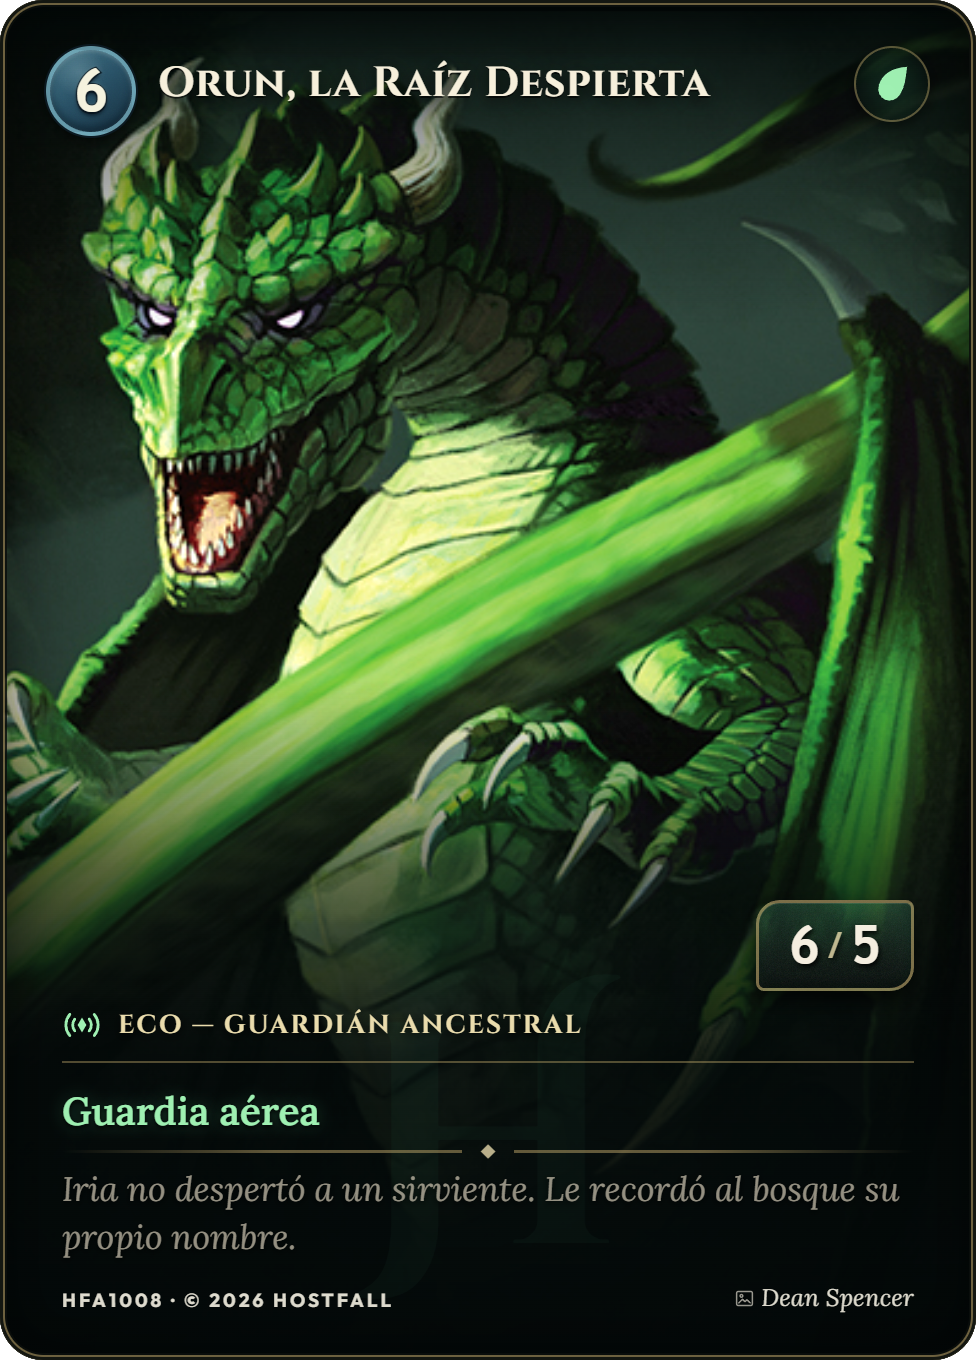
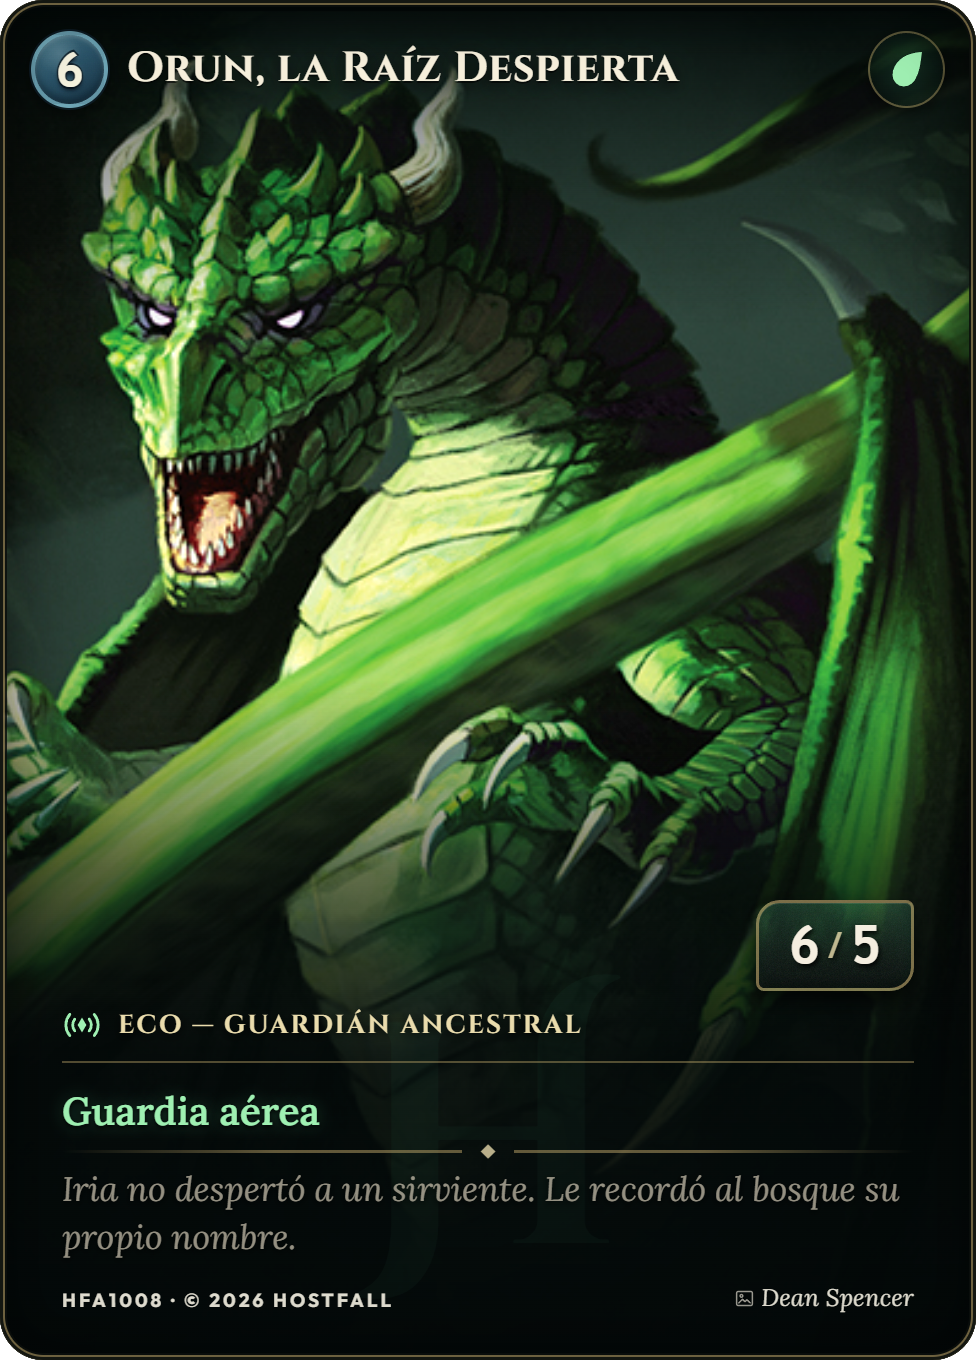
stable

Changed region(s): [[0.0307, 0.0, 0.7377, 0.1235], [0.8914, 0.0309, 0.9529, 0.0926]]

diff --git a/dev/tools/Decks/deck-card-studio.css b/dev/tools/Decks/deck-card-studio.css
@@ -306,10 +306,12 @@ body {
 
 .tcg-cost-gem {
     position: absolute;
+    top: 30.5px;
+    left: 31px;
     z-index: 10;
     display: flex;
-    width: 90px;
-    height: 90px;
+    width: 77px;
+    height: 77px;
     align-items: center;
     justify-content: center;
     isolation: isolate;
@@ -337,7 +339,7 @@ body {
     height: 100%;
     place-items: center;
     color: #f6f3df;
-    font: 900 60px/1 "Trebuchet MS", "Outfit", sans-serif;
+    font: 900 49px/1 "Trebuchet MS", "Outfit", sans-serif;
     font-feature-settings: "tnum" 1;
     font-variant-numeric: tabular-nums;
     text-shadow:
@@ -408,6 +410,10 @@ body {
     color: inherit;
     font: italic 500 24px/1 "Lora", Georgia, serif;
     letter-spacing: 0.2px;
+}
+
+.tcg-cost-gem span[data-cost="4"] {
+    transform: translateX(-3px);
 }
 
 .tcg-stats-badge {
@@ -691,21 +697,6 @@ body {
     z-index: 2;
 }
 
-.tcg-card--common .tcg-cost-gem {
-    top: 30.5px;
-    left: 31px;
-    width: 77px;
-    height: 77px;
-}
-
-.tcg-card--common .tcg-cost-gem span {
-    font-size: 49px;
-}
-
-.tcg-card--common .tcg-cost-gem span[data-cost="4"] {
-    transform: translateX(-3px);
-}
-
 .tcg-card--common .tcg-title {
     color: #f6f1e5;
     font: 700 37px/1.08 "Cinzel", serif;
@@ -957,23 +948,18 @@ body[data-theme="crimson_court"] .tcg-seal .tcg-faction-icon--blood {
 
 .tcg-card--full-art .tcg-head {
     position: absolute;
-    top: 46px;
-    right: 46px;
-    left: 46px;
+    top: 30.5px;
+    right: 31px;
+    left: 31px;
     z-index: 9;
     display: flex;
     align-items: center;
     gap: 22px;
-    padding-left: 112px;
+    padding-left: 96px;
 }
 
 .tcg-card--full-art.tcg-card--no-cost .tcg-head {
     padding-left: 0;
-}
-
-.tcg-card--full-art .tcg-cost-gem {
-    top: 46px;
-    left: 46px;
 }
 
 .tcg-card--full-art .tcg-title {
@@ -1006,9 +992,9 @@ body[data-theme="crimson_court"] .tcg-seal .tcg-faction-icon--blood {
 
 .tcg-card--full-art .tcg-seal {
     display: grid;
-    width: 76px;
-    height: 76px;
-    flex: 0 0 76px;
+    width: 77px;
+    height: 77px;
+    flex: 0 0 77px;
     padding: 14px;
     place-items: center;
     border: 2px solid rgba(191, 166, 106, 0.45);

diff --git a/tests/deckCardText.test.js b/tests/deckCardText.test.js
@@ -377,6 +377,26 @@ test("the shared printed design keeps the approved compact geometry", () => {
   );
   assert.match(
     sharedCss,
+    /\.tcg-cost-gem\s*\{[^}]*top:\s*30\.5px;[^}]*left:\s*31px;[^}]*width:\s*77px;[^}]*height:\s*77px;/u,
+    "common and full-art cards must share one printed cost position and size",
+  );
+  assert.doesNotMatch(
+    sharedCss,
+    /\.tcg-card--(?:common|full-art) \.tcg-cost-gem\s*\{/u,
+    "card variants must not override the shared printed cost geometry",
+  );
+  assert.match(
+    sharedCss,
+    /\.tcg-card--full-art \.tcg-head\s*\{[^}]*top:\s*30\.5px;[^}]*right:\s*31px;[^}]*left:\s*31px;[^}]*padding-left:\s*96px;/u,
+    "the full-art title row must align with the shared cost geometry",
+  );
+  assert.match(
+    sharedCss,
+    /\.tcg-card--full-art \.tcg-seal\s*\{[^}]*width:\s*77px;[^}]*height:\s*77px;[^}]*flex:\s*0 0 77px;/u,
+    "the full-art top-right seal must mirror the cost orb",
+  );
+  assert.match(
+    sharedCss,
     /\.tcg-card--common \.tcg-typeband\s*\{[^}]*min-height:\s*74px;/u,
     "the common type band must match the header height",
   );

diff --git a/dev/tools/Decks/crimson_court/deck-data.generated.js b/dev/tools/Decks/crimson_court/deck-data.generated.js
@@ -117,12 +117,11 @@ window.HostfallDeckData = [
     "lore": "Nada abandona la cripta sin su permiso.",
     "showFlavorText": true,
     "cantidad": 3,
-    "fullArt": true,
     "headerFade": false,
     "art_frame": {
       "zoom": 1,
       "x": 0,
-      "y": -53
+      "y": -42
     }
   },
   {
@@ -224,12 +223,11 @@ window.HostfallDeckData = [
     "lore": "El dolor sólo es fuerza esperando una dirección.",
     "showFlavorText": false,
     "cantidad": 2,
-    "fullArt": true,
     "headerFade": false,
     "art_frame": {
-      "zoom": 0.79,
-      "x": -10,
-      "y": -135
+      "zoom": 0.703,
+      "x": -4,
+      "y": -220
     }
   },
   {
@@ -248,9 +246,9 @@ window.HostfallDeckData = [
     "cantidad": 2,
     "fullArt": true,
     "art_frame": {
-      "zoom": 1.425,
+      "zoom": 1.603,
       "x": -1,
-      "y": 185
+      "y": 132
     }
   },
   {
